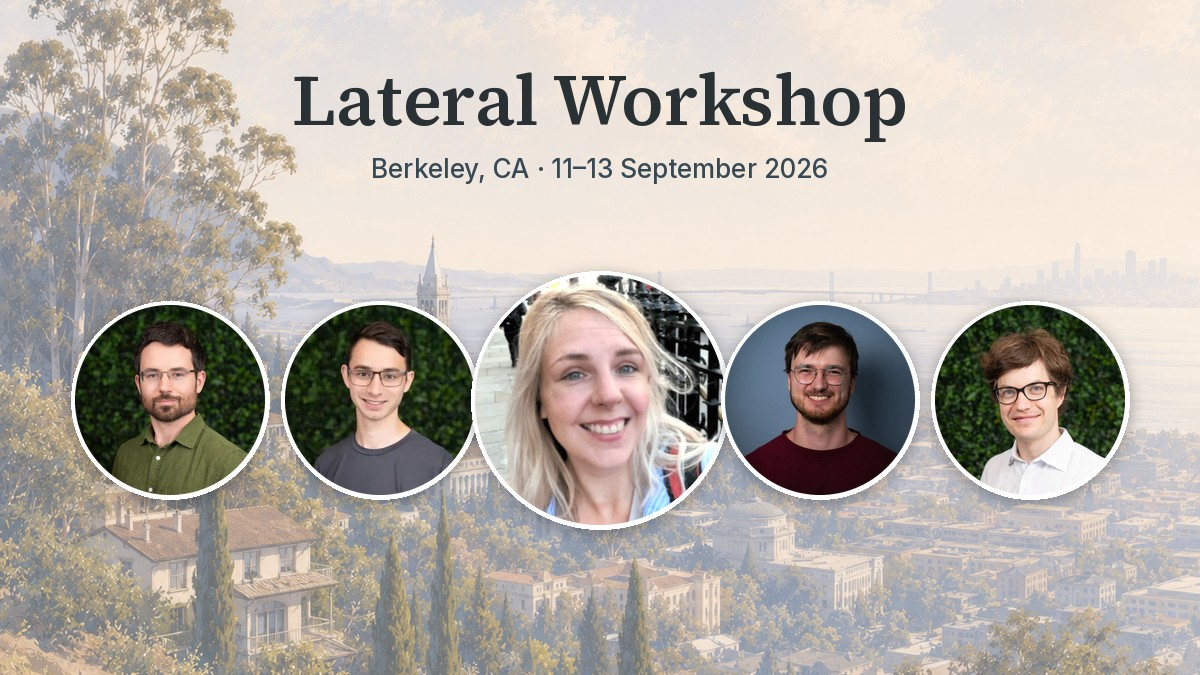
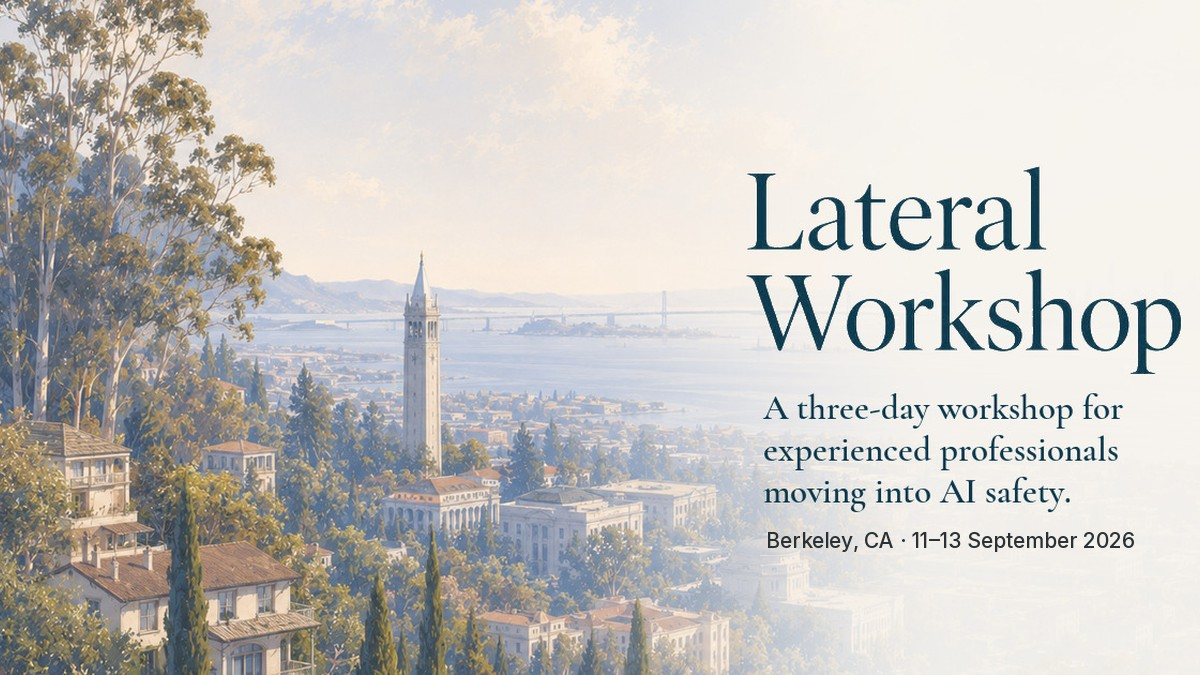
content: Lateral tile — use image C, drop dates from copy, keep backups
- Remove the date range from the tile description
- Swap the tile image to variant C (site watercolour + wordmark)
- Keep variants A, B, D and the generator under docs/assets as backups

diff --git a/docs/assets/lateral-workshop-tile-candidates/make_tiles.py b/docs/assets/lateral-workshop-tile-candidates/make_tiles.py
@@ -1,0 +1,265 @@
+"""Generate Lateral Workshop tile candidates (1200x675, 16:9) plus a contact sheet.
+
+Usage: .venv/bin/python make_tiles.py
+Outputs to ./previews/
+"""
+from pathlib import Path
+from PIL import Image, ImageDraw, ImageFilter, ImageFont, ImageEnhance
+
+SRC = Path("src")
+OUT = Path("previews")
+OUT.mkdir(exist_ok=True)
+W, H = 1200, 675
+
+# Site palette (theme.css)
+OFFWHITE = (246, 232, 220)
+PINE = (54, 73, 85)
+PINE_DEEP = (42, 49, 53)
+BRICK = (185, 99, 67)
+CREAM = (254, 252, 249)
+
+SERIF = lambda s: ImageFont.truetype("fonts/Source_Serif_4-600.ttf", s)
+SERIF_R = lambda s: ImageFont.truetype("fonts/Source_Serif_4-400.ttf", s)
+SANS = lambda s: ImageFont.truetype("fonts/Inter-500.ttf", s)
+SANS_R = lambda s: ImageFont.truetype("fonts/Inter-400.ttf", s)
+
+# Speaker order as on lateralworkshop.org
+SPEAKERS = [
+    ("daniel-kokotajlo.jpg", "Daniel Kokotajlo"),
+    ("boston-nyer.png", "Boston Nyer"),
+    ("ryan-kidd.png", "Ryan Kidd"),
+    ("mckenna-fitzgerald.png", "McKenna Fitzgerald"),
+    ("abbey-chaver.png", "Abbey Chaver"),
+    ("jonas-vollmer.png", "Jonas Vollmer"),
+    ("ada-lin.jpg", "Ada Lin"),
+    ("agustin-covarrubias.jpeg", "Agustín Covarrubias"),
+    ("lawrence-chan-v3.png", "Lawrence Chan"),
+    ("joshua-landes.png", "Joshua Landes"),
+    ("asya-bergal.jpg", "Asya Bergal"),
+    ("david-abecassis.png", "David Abecassis"),
+    ("max-daniel.jpg", "Max Daniel"),
+    ("eli-lifland.png", "Eli Lifland"),
+    ("jess-bergs.png", "Jess Bergs"),
+    ("joseph-de-wolk.png", "Joseph de Wolk"),
+    ("carrick-flynn.png", "Carrick Flynn"),
+    ("jim-chapman.png", "Jim Chapman"),
+]
+JESS = "jess-bergs.png"
+
+
+def load_bg(wash=0.0, wash_color=OFFWHITE):
+    """Berkeley watercolor cropped to 16:9, keeping campanile + bay, optional warm wash."""
+    im = Image.open(SRC / "berkeley_watercolor_view.png").convert("RGB")
+    w, h = im.size  # 1448 x 1086
+    ch = int(w * 9 / 16)  # 814
+    top = 150  # trim sky, keep hillside
+    im = im.crop((0, top, w, top + ch)).resize((W, H), Image.LANCZOS)
+    im = ImageEnhance.Color(im).enhance(0.94)
+    if wash:
+        im = Image.blend(im, Image.new("RGB", (W, H), wash_color), wash)
+    return im
+
+
+def square_face(name, size):
+    """Centre-square crop biased towards the top (faces sit high in portraits)."""
+    im = Image.open(SRC / name).convert("RGB")
+    w, h = im.size
+    s = min(w, h)
+    if h > w:
+        top = int((h - s) * 0.25)
+        box = (0, top, s, top + s)
+    else:
+        left = (w - s) // 2
+        box = (left, 0, left + s, s)
+    return im.crop(box).resize((size, size), Image.LANCZOS)
+
+
+def circle_face(name, d, ring=3, ring_color=(255, 255, 255)):
+    """Circular headshot with ring and soft shadow, returned as RGBA with padding."""
+    pad = 14
+    S = d + 2 * ring + 2 * pad
+    layer = Image.new("RGBA", (S, S), (0, 0, 0, 0))
+    # shadow
+    sh = Image.new("RGBA", (S, S), (0, 0, 0, 0))
+    ImageDraw.Draw(sh).ellipse((pad, pad + 4, pad + d + 2 * ring, pad + d + 2 * ring + 4), fill=(42, 49, 53, 90))
+    sh = sh.filter(ImageFilter.GaussianBlur(7))
+    layer.alpha_composite(sh)
+    # ring
+    ImageDraw.Draw(layer).ellipse((pad, pad, pad + d + 2 * ring, pad + d + 2 * ring), fill=ring_color + (255,))
+    # face
+    face = square_face(name, d).convert("RGBA")
+    mask = Image.new("L", (d * 4, d * 4), 0)
+    ImageDraw.Draw(mask).ellipse((0, 0, d * 4 - 1, d * 4 - 1), fill=255)
+    mask = mask.resize((d, d), Image.LANCZOS)
+    layer.paste(face, (pad + ring, pad + ring), mask)
+    return layer
+
+
+def paste_center(canvas, layer, cx, cy):
+    canvas.alpha_composite(layer, (int(cx - layer.width / 2), int(cy - layer.height / 2)))
+
+
+def wordmark(draw, x, y, size=64, sub=None, sub_size=22, anchor="la", color=PINE_DEEP):
+    draw.text((x, y), "Lateral Workshop", font=SERIF(size), fill=color, anchor=anchor)
+    if sub:
+        draw.text((x, y + size * 1.15), sub, font=SANS(sub_size), fill=PINE, anchor=anchor)
+
+
+# ---------- Variant A: full speaker grid on washed watercolor ----------
+def variant_a():
+    bg = load_bg(wash=0.42).convert("RGBA")
+    d = 120
+    cols, rows = 6, 3
+    cell = 166
+    grid_w = cols * cell
+    x0 = (W - grid_w) / 2 + cell / 2
+    y0 = 200
+    for i, (f, _) in enumerate(SPEAKERS):
+        r, c = divmod(i, cols)
+        ring, rc = (3, (255, 255, 255))
+        paste_center(bg, circle_face(f, d, ring, rc), x0 + c * cell, y0 + r * cell)
+    draw = ImageDraw.Draw(bg)
+    draw.text((W / 2, 58), "Lateral Workshop", font=SERIF(50), fill=PINE_DEEP, anchor="mm")
+    draw.text((W / 2, 106), "Berkeley, CA · 11–13 September 2026", font=SANS(22), fill=PINE, anchor="mm")
+    return bg.convert("RGB")
+
+
+# ---------- Variant B: hero row of five, Jess centre ----------
+def variant_b():
+    bg = load_bg(wash=0.30).convert("RGBA")
+    row = ["daniel-kokotajlo.jpg", "eli-lifland.png", JESS, "ryan-kidd.png", "jonas-vollmer.png"]
+    xs = [170, 380, 600, 820, 1030]
+    cy = 400
+    for f, x in zip(row, xs):
+        if f == JESS:
+            paste_center(bg, circle_face(f, 250, 4, (255, 255, 255)), x, cy)
+        else:
+            paste_center(bg, circle_face(f, 190, 4, (255, 255, 255)), x, cy)
+    draw = ImageDraw.Draw(bg)
+    draw.text((W / 2, 100), "Lateral Workshop", font=SERIF(72), fill=PINE_DEEP, anchor="mm")
+    draw.text((W / 2, 168), "Berkeley, CA · 11–13 September 2026", font=SANS(26), fill=PINE, anchor="mm")
+    return bg.convert("RGB")
+
+
+# ---------- Variant C: the site's own social preview (watercolor + wordmark only) ----------
+def variant_c():
+    im = Image.open(SRC / "social-preview-v6.jpg").convert("RGB")  # 1200x630
+    # scale to cover 1200x675 then centre-crop
+    s = H / im.height
+    im = im.resize((int(im.width * s), H), Image.LANCZOS)
+    left = (im.width - W) // 2
+    im = im.crop((left, 0, left + W, H))
+    draw = ImageDraw.Draw(im)
+    draw.text((766, 548), "Berkeley, CA · 11–13 September 2026", font=SANS(21), fill=PINE_DEEP, anchor="ls")
+    return im
+
+
+# ---------- Variant D: split — watercolor + wordmark left, 3x3 faces right ----------
+def variant_d():
+    bg = load_bg(wash=0.12).convert("RGBA")
+    # right panel wash
+    panel = Image.new("RGBA", (W, H), (0, 0, 0, 0))
+    pd = ImageDraw.Draw(panel)
+    px = 690
+    pd.rectangle((px, 0, W, H), fill=OFFWHITE + (225,))
+    # soft edge
+    for i in range(60):
+        a = int(225 * i / 60)
+        pd.line((px - 60 + i, 0, px - 60 + i, H), fill=OFFWHITE + (a,))
+    bg.alpha_composite(panel)
+    nine = ["daniel-kokotajlo.jpg", "eli-lifland.png", "ryan-kidd.png",
+            "jonas-vollmer.png", JESS, "lawrence-chan-v3.png",
+            "max-daniel.jpg", "asya-bergal.jpg", "carrick-flynn.png"]
+    d, cell = 128, 158
+    gx = px + (W - px) / 2 - cell
+    gy = H / 2 - cell
+    for i, f in enumerate(nine):
+        r, c = divmod(i, 3)
+        ring, rc = (3, (255, 255, 255))
+        paste_center(bg, circle_face(f, d, ring, rc), gx + c * cell, gy + r * cell)
+    glow = Image.new("RGBA", (W, H), (0, 0, 0, 0))
+    ImageDraw.Draw(glow).rounded_rectangle((20, 370, 520, 640), 40, fill=OFFWHITE + (190,))
+    glow = glow.filter(ImageFilter.GaussianBlur(28))
+    bg.alpha_composite(glow)
+    draw = ImageDraw.Draw(bg)
+    draw.text((56, 470), "Lateral", font=SERIF(84), fill=PINE_DEEP, anchor="ls")
+    draw.text((56, 556), "Workshop", font=SERIF(84), fill=PINE_DEEP, anchor="ls")
+    draw.text((58, 602), "Berkeley, CA · 11–13 September 2026", font=SANS(22), fill=PINE_DEEP, anchor="ls")
+    return bg.convert("RGB")
+
+
+# ---------- In-situ card mock (mirrors .project-card CSS) ----------
+def wrap(draw, text, font, max_w):
+    words, lines, cur = text.split(), [], ""
+    for w in words:
+        t = (cur + " " + w).strip()
+        if draw.textlength(t, font=font) <= max_w:
+            cur = t
+        else:
+            lines.append(cur)
+            cur = w
+    if cur:
+        lines.append(cur)
+    return lines
+
+
+def card(media, title, desc, tags, year, cw=380):
+    mh = int(cw * 9 / 16)
+    pad = 20
+    body_font, desc_font, tag_font = SANS(17), SANS_R(14), SANS(11)
+    tmp = ImageDraw.Draw(Image.new("RGB", (1, 1)))
+    t_lines = wrap(tmp, title, body_font, cw - 2 * pad)
+    d_lines = wrap(tmp, desc, desc_font, cw - 2 * pad)
+    ch = mh + pad + len(t_lines) * 23 + 10 + len(d_lines) * 21 + 12 + 26 + 8 + 18 + pad
+    im = Image.new("RGBA", (cw, ch), (0, 0, 0, 0))
+    # rounded card
+    mask = Image.new("L", (cw, ch), 0)
+    ImageDraw.Draw(mask).rounded_rectangle((0, 0, cw - 1, ch - 1), 14, fill=255)
+    base = Image.new("RGBA", (cw, ch), CREAM + (255,))
+    base.paste(media.resize((cw, mh), Image.LANCZOS), (0, 0))
+    im.paste(base, (0, 0), mask)
+    draw = ImageDraw.Draw(im)
+    draw.rounded_rectangle((0, 0, cw - 1, ch - 1), 14, outline=(225, 219, 212))
+    y = mh + pad
+    for l in t_lines:
+        draw.text((pad, y), l, font=body_font, fill=(10, 10, 10)); y += 23
+    y += 10
+    for l in d_lines:
+        draw.text((pad, y), l, font=desc_font, fill=(80, 80, 80)); y += 21
+    y += 12
+    x = pad
+    for t in tags:
+        tw = draw.textlength(t, font=tag_font) + 18
+        draw.rounded_rectangle((x, y, x + tw, y + 22), 11, fill=(240, 238, 235))
+        draw.text((x + 9, y + 5), t, font=tag_font, fill=(80, 80, 80))
+        x += tw + 6
+    y += 34
+    draw.text((pad, y), year, font=SANS(12), fill=(140, 140, 140))
+    return im
+
+
+TITLE = "Lateral Workshop 2026 – Expert Guest"
+DESC = ("Expert guest at Lateral, a three-day workshop in Berkeley, California (11–13 September 2026) for "
+        "experienced professionals moving into AI safety. Talked with participants about what working in the "
+        "field looks like day to day, how to make the move, and where their experience fits.")
+TAGS = ["Public Speaking", "Mentorship", "AI Security"]
+
+if __name__ == "__main__":
+    variants = {"A-speaker-grid": variant_a(), "B-hero-row": variant_b(),
+                "C-site-og-image": variant_c(), "D-split": variant_d()}
+    cards = []
+    for k, im in variants.items():
+        im.save(OUT / f"{k}.png", optimize=True)
+        cards.append((k, card(im, TITLE, DESC, TAGS, "2026")))
+    gap, m = 40, 40
+    sheet_w = m * 2 + sum(c.width for _, c in cards) + gap * (len(cards) - 1)
+    sheet_h = m * 2 + 36 + max(c.height for _, c in cards)
+    sheet = Image.new("RGB", (sheet_w, sheet_h), (251, 247, 242))
+    sd = ImageDraw.Draw(sheet)
+    x = m
+    for k, c in cards:
+        sd.text((x, m), k, font=SANS(15), fill=PINE)
+        sheet.paste(c, (x, m + 36), c)
+        x += c.width + gap
+    sheet.save(OUT / "contact-sheet.png", optimize=True)
+    print("wrote", sorted(p.name for p in OUT.iterdir()))

diff --git a/docs/assets/lateral-workshop-tile-candidates/README.md b/docs/assets/lateral-workshop-tile-candidates/README.md
@@ -1,0 +1,14 @@
+# Lateral Workshop tile — backup candidates
+
+The live tile (`public/images/lateral-workshop-2026.jpg`) uses variant C, the
+workshop site's own social preview (Berkeley watercolour + wordmark).
+
+These are the other 16:9 candidates prepared on 2026-09-19, kept as backups:
+
+- `A-speaker-grid.jpg` — full speaker grid on washed watercolour
+- `B-hero-row.jpg` — hero row of five, Jess centre (was the tile in PR #42)
+- `D-split.jpg` — watercolour + wordmark left, 3x3 faces right
+
+`make_tiles.py` regenerates all four from the workshop site's assets (headshots,
+watercolour, palette); it expects those under a `src/` folder next to it and
+needs Pillow. Nothing in this folder is served by the site.
